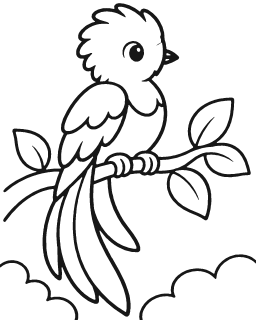
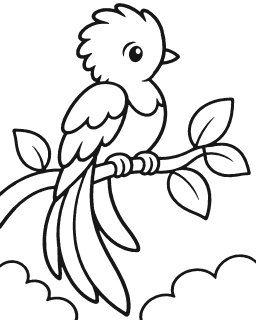
fix: corregir los trazos y el ojo del quetzal en E06

diff --git a/tool/laminas/corregir_e06.py b/tool/laminas/corregir_e06.py
@@ -1,6 +1,4 @@
-"""Retoque de E06: sustituye el pico grande y curvo (de loro) por el pico
-corto del quetzal. El original no se modifica; el resultado se guarda en
-tool/laminas/fuentes_corregidas/E06.png y es lo que lee convertir.py.
+"""Retoca el perfil, el ojo, la rama y la hoja derecha de E06.
 
     python tool/laminas/corregir_e06.py <E06_quetzal.webp>
 """
@@ -11,39 +9,51 @@ from pathlib import Path
 import cv2
 import numpy as np
 
-GROSOR = 13  # grosor del trazo original, en píxeles de la fuente
-NEGRO = 0
+
+def curva(p0, p1, p2, p3):
+    t = np.linspace(0, 1, 56)[:, None]
+    u = 1 - t
+    puntos = (u ** 3 * p0 + 3 * u ** 2 * t * p1
+              + 3 * u * t ** 2 * p2 + t ** 3 * p3)
+    return np.round(puntos * 8).astype(np.int32)
 
 
-def curva(p0, p1, p2, n=40):
-    t = np.linspace(0, 1, n)[:, None]
-    p = (1 - t) ** 2 * np.array(p0) + 2 * (1 - t) * t * np.array(p1) \
-        + t ** 2 * np.array(p2)
-    return np.round(p * 8).astype(np.int32)  # subpíxel (shift=3)
-
-
-def trazo(img, puntos):
-    cv2.polylines(img, [puntos], False, NEGRO, GROSOR, cv2.LINE_AA, shift=3)
-    for x, y in (puntos[0], puntos[-1]):
-        cv2.circle(img, (int(x), int(y)), GROSOR * 4, NEGRO, -1, cv2.LINE_AA,
-                   shift=3)
+def trazo(img, puntos, grosor):
+    cv2.polylines(img, [puntos], False, 0, grosor, cv2.LINE_AA, shift=3)
 
 
 def main(fuente):
     img = cv2.imdecode(np.fromfile(fuente, np.uint8), cv2.IMREAD_GRAYSCALE)
     assert img.shape == (1402, 1122), img.shape
-    # 1. Se borra el pico original (ambas mandíbulas y la comisura).
-    borrar = np.array([(634, 228), (688, 198), (722, 176), (800, 176),
-                       (800, 312), (700, 314), (660, 302), (634, 292)])
-    cv2.fillPoly(img, [borrar], 255)
-    # 2. Se cierra el perfil de la cara donde estaba el pico.
-    trazo(img, curva((708, 160), (742, 250), (684, 326)))
-    # 3. Pico corto y recto, con la línea de la boca.
-    trazo(img, curva((723, 222), (752, 228), (776, 252)))
-    trazo(img, curva((776, 252), (750, 268), (722, 276)))
-    trazo(img, curva((726, 250), (750, 250), (774, 252)))
+
+    # Alinea el perfil nuevo con la frente y la mejilla originales.
+    img[154:316, 633:808] = 255
+    trazo(img, curva((711, 149), (725, 211), (721, 266), (676, 320)), 13)
+    pico = np.concatenate([
+        curva((719, 217), (743, 220), (768, 234), (781, 248)),
+        curva((781, 248), (764, 265), (741, 273), (705, 277)),
+    ])
+    trazo(img, pico, 11)
+
+    # Separa el ojo de la ceja y dibuja un reflejo ovalado.
+    img[175:273, 525:633] = 255
+    ceja = np.concatenate([
+        curva((542, 246), (526, 216), (556, 174), (594, 185)),
+        curva((594, 185), (566, 190), (541, 213), (542, 246)),
+    ])
+    cv2.fillPoly(img, [ceja], 0, cv2.LINE_AA, shift=3)
+    cv2.ellipse(img, (594, 236), (29, 35), 12, 0, 360, 0, -1, cv2.LINE_AA)
+    cv2.ellipse(img, (604, 224), (10, 12), -12, 0, 360, 255, -1, cv2.LINE_AA)
+
+    # Continúa ambos bordes de la rama con la misma dirección y grosor.
+    img[780:1015, :52] = 255
+    trazo(img, curva((-4, 854), (14, 836), (39, 817), (65, 801)), 12)
+    trazo(img, curva((-4, 996), (15, 970), (40, 936), (65, 910)), 13)
+
+    # Prolonga la base de la hoja hasta el borde superior de la rama.
+    trazo(img, curva((889, 641), (894, 653), (895, 676), (900, 694)), 11)
+
     destino = Path(__file__).parent / 'fuentes_corregidas' / 'E06.png'
-    destino.parent.mkdir(exist_ok=True)
     cv2.imencode('.png', img)[1].tofile(str(destino))
     print(destino)
 

diff --git a/tool/laminas/convertir.py b/tool/laminas/convertir.py
@@ -66,7 +66,7 @@ PAGINAS_PREVIAS = {'E01': ('rana-en-la-hoja', 2), 'M06': ('quetzal', 2),
 def pagina_de(art_id, tema_id):
     if art_id in PAGINAS_PREVIAS:
         return PAGINAS_PREVIAS[art_id]
-    return f'{art_id.lower()}-{tema_id}', 2 if art_id in {'E03', 'E04', 'E05'} else 1
+    return f'{art_id.lower()}-{tema_id}', 2 if art_id in {'E03', 'E04', 'E05', 'E06'} else 1
 
 
 def leer_gris(ruta):
@@ -255,6 +255,12 @@ def procesar(art_id, tema_id, fuente, original):
     # siendo regiones propias, exentas del mínimo táctil.
     brillos = [a for a in list(g.area)
                if pequeno(a) and macizo[a] > 2.0]
+    if art_id == 'E06':
+        reflejo = int(zonas[256, 689])
+        if reflejo == 0 or not pequeno(reflejo):
+            raise ValueError('E06: la sonda debe quedar dentro del reflejo del ojo')
+        if reflejo not in brillos:
+            brillos.append(reflejo)
     for a in brillos:
         for otro in g.vec.pop(a, {}):
             g.vec[otro].pop(a, None)
@@ -272,6 +278,12 @@ def procesar(art_id, tema_id, fuente, original):
                  '2 huecos alrededor del tallo agrupados con el fondo'),
                 (((863, 1456), (578, 1538)),
                  'tallo estrecho agrupado con la hoja derecha')],
+        'E06': [(((70, 976), (507, 859), (689, 821), (831, 824)),
+                 '4 tramos de la rama agrupados en una región propia'),
+                (((492, 1333), (343, 1257), (259, 1239)),
+                 '3 plumas largas de la cola agrupadas en una región propia'),
+                (((693, 665), (729, 783), (582, 796), (849, 282)),
+                 'pico y patas agrupados con el pecho por su tamaño')],
     }
     agrupadas_a_mano = 0
     for puntos, nota in grupos_manuales.get(art_id, ()):
@@ -452,6 +464,9 @@ def procesar(art_id, tema_id, fuente, original):
     rng = np.random.default_rng(7)
     paleta = rng.integers(90, 245, size=(len(regiones) + 1, 3), dtype=np.uint8)
     paleta[0] = 255
+    if art_id == 'E06':
+        for brillo in brillos:
+            paleta[numero[brillo]] = 255
     previa = paleta[lienzo]
     previa[tinta_vec == 1] = (20, 20, 20)
     previa = cv2.resize(previa, (round(ancho * 0.5), round(alto * 0.5)),

diff --git a/tool/laminas/manifiesto.py b/tool/laminas/manifiesto.py
@@ -89,6 +89,7 @@ PREVIAS = {
     'e03-colibri': {'1': 'pages/e03-colibri-v1.json'},
     'e04-tucan': {'1': 'pages/e04-tucan-v1.json'},
     'e05-flor-tropical': {'1': 'pages/e05-flor-tropical-v1.json'},
+    'e06-quetzal': {'1': 'pages/e06-quetzal-v1.json'},
     'rana-en-la-hoja': {'1': 'pages/rana-en-la-hoja-v1.json'},
     'quetzal': {'1': 'pages/quetzal-v1.json'},
     'sendero': {'1': 'pages/sendero-v1.json'},

diff --git a/docs/laminas/REGISTRO_CAMBIOS.md b/docs/laminas/REGISTRO_CAMBIOS.md
@@ -45,13 +45,12 @@ Todas las láminas se normalizan a 1600 px de lado mayor y se vectorizan; debajo
 - 2 huecos alrededor del tallo agrupados con el fondo
 - tallo estrecho agrupado con la hoja derecha
 
-## E06 · `e06-quetzal` (revisión 1)
+## E06 · `e06-quetzal` (revisión 2)
 
-- Original: `Quetzal sonriente en la rama-5.webp` → `E06.png` (1122 × 1402 px), SHA-256 `64ca321cd4b9073d…`
-- Lienzo: 1280 × 1600 (vertical); trazo 16.0 px; tinta que toca el marco: 1.1 %
-- **Retoque de arte** (`tool/laminas/corregir_e06.py`): se sustituyó el pico grande y curvo por un pico corto y se cerró el perfil de la cara. Fuente retocada: `tool/laminas/fuentes_corregidas/E06.png`.
-- huecos de trazo cerrados (542 px)
-- 9 zonas pequeñas agrupadas con su vecina
+- Original: `Quetzal sonriente en la rama-5.webp` → `E06.png` (1122 × 1402 px), SHA-256 `454f3ad37c15f1cb…`
+- Lienzo: 1280 × 1600 (vertical); trazo 16.0 px; tinta que toca el marco: 2.0 %
+- Fuente corregida: `tool/laminas/fuentes_corregidas/E06.png`. Se redibujaron el perfil y el pico, los bordes de la rama junto al marco y la unión de la hoja derecha. El ojo queda separado de la ceja y su reflejo tiene una región propia.
+- Los cuatro tramos de la rama y las tres plumas largas de la cola forman dos regiones. El pico y las patas comparten color con el pecho por su tamaño.
 
 ## E07 · `e07-perezoso` (revisión 1)
 
